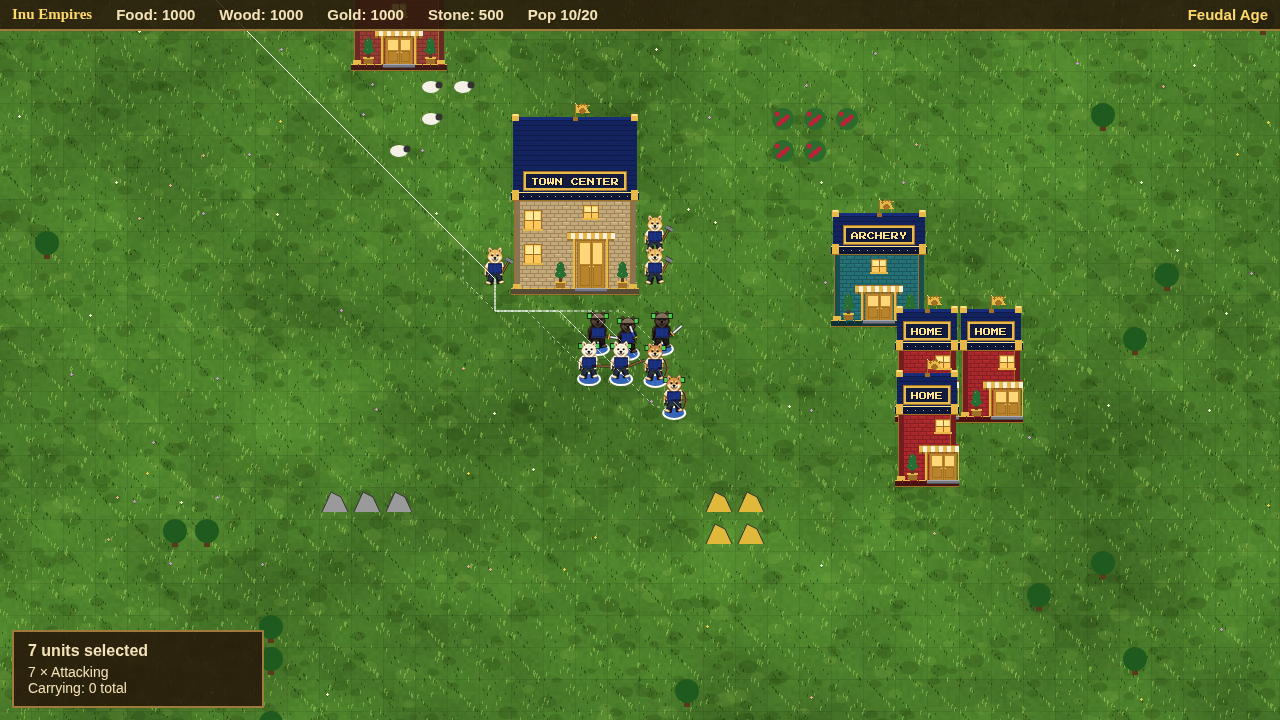
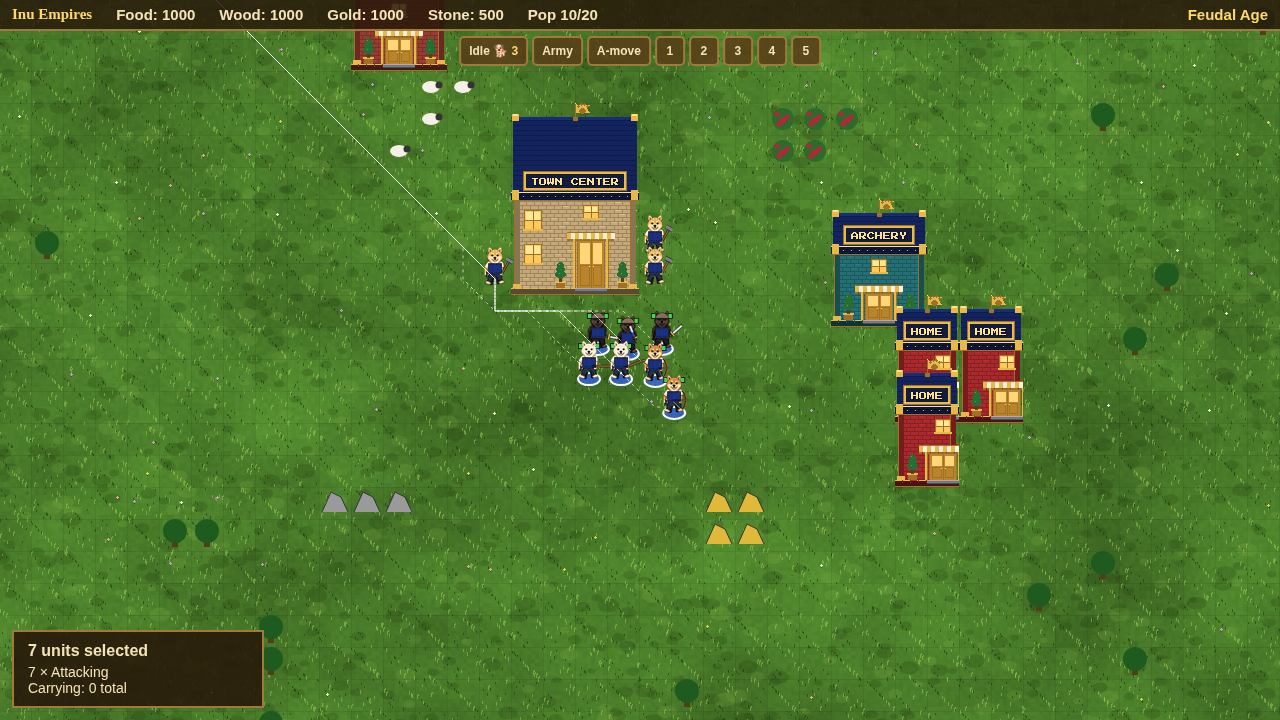
Fix quickbar click handler (comment swallowed code); collapsible build/train menu in landscape (tab, auto-collapse while placing) so it never covers the map; proofs updated

Changed region(s): [[0.3438, 0.0306, 0.6562, 0.0917]]

diff --git a/index.html b/index.html
@@ -69,8 +69,14 @@ body.ingame #quickbar{display:flex}
 #quickbar button{font:bold 12px sans-serif;min-height:30px;padding:3px 8px;background:#5a3c18d8;color:#f4e2b8;border:2px solid #a07a3a;border-radius:5px;cursor:pointer;touch-action:manipulation;-webkit-user-select:none;user-select:none}
 #quickbar button.active{background:#7a1c1c;border-color:#f66}#quickbar button.hot b{color:#ffd86b}#quickbar .grp{min-width:30px;padding:3px 5px}#quickbar .grp.set{border-color:#6f6}#quickbar small{font-size:9px;margin-left:2px;color:#9f9}
 @media (max-height:520px){#quickbar{top:calc(26px + env(safe-area-inset-top));left:max(8px,env(safe-area-inset-left));transform:none}#quickbar button{min-height:32px;font-size:11px;padding:2px 6px}#msg{top:64px}}
+#cmdtab{display:none}
+@media (max-height:520px){
+ body.has-cmd #cmdtab{display:block;position:fixed;right:max(8px,env(safe-area-inset-right));bottom:max(8px,env(safe-area-inset-bottom));z-index:6;font:bold 13px sans-serif;min-height:38px;padding:4px 12px;background:#5a3c18e0;color:#f4e2b8;border:2px solid #d4a640;border-radius:6px;touch-action:manipulation}
+ body:not(.cmd-open) #commands{display:none!important}
+ body.cmd-open #commands{bottom:calc(54px + env(safe-area-inset-bottom));max-height:calc(100vh - 236px)}
+}
 </style>
-</head><body><div id="hud"></div><div id="msg"></div><div id="banner"></div><div id="info"></div><div id="commands"></div><div id="net"></div><div id="stall"></div><div id="desync"></div><canvas id="game"></canvas><div id="touchbar"><button data-t="command">Command</button><button data-t="box">Box select</button><button data-t="cancel">Clear</button></div><div id="quickbar"><button data-q="idle" title="Idle villager (.)">Idle 🐕 0</button><button data-q="army" title="All army (,)">Army</button><button data-q="amove" title="Attack-move (Q): next order attacks on the way">A-move</button><button data-g="1" class="grp" title="Group 1: Ctrl+1 save, 1 recall; touch: long-press save, tap recall">1</button><button data-g="2" class="grp" title="Group 2: Ctrl+2 save, 2 recall; touch: long-press save, tap recall">2</button><button data-g="3" class="grp" title="Group 3: Ctrl+3 save, 3 recall; touch: long-press save, tap recall">3</button><button data-g="4" class="grp" title="Group 4: Ctrl+4 save, 4 recall; touch: long-press save, tap recall">4</button><button data-g="5" class="grp" title="Group 5: Ctrl+5 save, 5 recall; touch: long-press save, tap recall">5</button></div><div id="rotate">Rotate for best play ⟳</div><canvas id="title-bg"></canvas>
+</head><body><div id="hud"></div><div id="msg"></div><div id="banner"></div><div id="info"></div><div id="commands"></div><div id="net"></div><div id="stall"></div><div id="desync"></div><canvas id="game"></canvas><div id="touchbar"><button data-t="command">Command</button><button data-t="box">Box select</button><button data-t="cancel">Clear</button></div><button id="cmdtab" aria-expanded="false">🔨 Menu ▴</button><div id="quickbar"><button data-q="idle" title="Idle villager (.)">Idle 🐕 0</button><button data-q="army" title="All army (,)">Army</button><button data-q="amove" title="Attack-move (Q): next order attacks on the way">A-move</button><button data-g="1" class="grp" title="Group 1: Ctrl+1 save, 1 recall; touch: long-press save, tap recall">1</button><button data-g="2" class="grp" title="Group 2: Ctrl+2 save, 2 recall; touch: long-press save, tap recall">2</button><button data-g="3" class="grp" title="Group 3: Ctrl+3 save, 3 recall; touch: long-press save, tap recall">3</button><button data-g="4" class="grp" title="Group 4: Ctrl+4 save, 4 recall; touch: long-press save, tap recall">4</button><button data-g="5" class="grp" title="Group 5: Ctrl+5 save, 5 recall; touch: long-press save, tap recall">5</button></div><div id="rotate">Rotate for best play ⟳</div><canvas id="title-bg"></canvas>
 <div id="menu" class="screen"><div class="panel"><h1>Inu Empires</h1><div class="tag">Rise of the Shiba Clans</div>
  <button id="btn-sp">Single Player</button>
  <div class="row"><label for="transport">Online via</label><select id="transport"><option value="tabs">Same browser (two tabs)</option><option value="relay">Relay server (WebSocket)</option></select></div>

diff --git a/src/main.js b/src/main.js
@@ -141,13 +141,15 @@ qbEl.addEventListener('pointerdown', e => { const b = e.target.closest('[data-g]
 qbEl.addEventListener('pointerup', e => { if (!gPress) return; clearTimeout(gPress.t); if (!gPress.long) recallGroup(gPress.n); gPress = null; });
 qbEl.addEventListener('pointercancel', () => { if (gPress) clearTimeout(gPress.t); gPress = null; });
 let qbDown = null; qbEl.addEventListener('pointerdown', e => { qbDown = e.target.closest('[data-q]'); }, true);
-qbEl.addEventListener('click', e => { const b = e.target.closest('[data-q]'); if (!b || !world || b !== qbDown) return; qbDown = null; // ignore ghost clicks not started on this button const q = b.dataset.q;
+qbEl.addEventListener('click', e => { const b = e.target.closest('[data-q]'); if (!b || !world || b !== qbDown) return; qbDown = null; /* ignore ghost clicks not started on this button */ const q = b.dataset.q;
   if (q === 'idle') idleVillager(); else if (q === 'army') selectArmy(); else if (q === 'amove') { qb.amove = !qb.amove; } syncQb(); });
 setInterval(syncQb, 250);
 // ---- HUD / panels ----
 const bannerEl = $('banner'), hud = $('hud'), infoEl = $('info'), cmdEl = $('commands'), msgEl = $('msg'), netEl = $('net'), stallEl = $('stall'), desyncEl = $('desync');
 let lastCmd = '';
-cmdEl.addEventListener('click', e => { const btn = e.target.closest('button'); if (!btn || btn.disabled) return; const a = btn.dataset.action, b = selectedBuilding(world);
+const cmdTab = $('cmdtab'); cmdTab.addEventListener('click', () => { const o = document.body.classList.toggle('cmd-open'); cmdTab.setAttribute('aria-expanded', o); });
+cmdEl.addEventListener('click', e => { const btn = e.target.closest('button'); if (!btn || btn.disabled) return; if (BUILDING_DEFS[btn.dataset.action]) document.body.classList.remove('cmd-open'); // collapse so the placement ghost is visible
+ const a = btn.dataset.action, b = selectedBuilding(world);
   if (a === 'train') issue('train', { id: b.id, unit: 'villager' });
   else if (a === 'age-up') issue('ageup', { id: b.id });
   else if (a === 'cancel') issue('cancel', { id: b.id });
@@ -192,6 +194,7 @@ function updateHud() {
     const miss = missingFor(world, d.cost);
     return button(t, t === 'house' ? 'Build House' : d.name, miss || costText(d.cost), { disabled: !!miss, title: `${d.name} (${d.size}x${d.size}): ${costText(d.cost)}${t === 'farm' ? ', must touch a Mill or Town Center' : ''}` }); }).join('');
   if (cmd !== lastCmd) { cmdEl.innerHTML = cmd; lastCmd = cmd; } cmdEl.style.display = cmd ? 'flex' : 'none';
+  document.body.classList.toggle('has-cmd', !!cmd); if (!cmd) document.body.classList.remove('cmd-open'); cmdTab.textContent = document.body.classList.contains('cmd-open') ? '✕ Close menu' : (b ? '🏛 Train ▴' : '🔨 Build ▴');
   if (net) {
     const ping = net.session.rtt == null ? '…' : Math.round(net.session.rtt);
     netEl.style.display = 'block';
